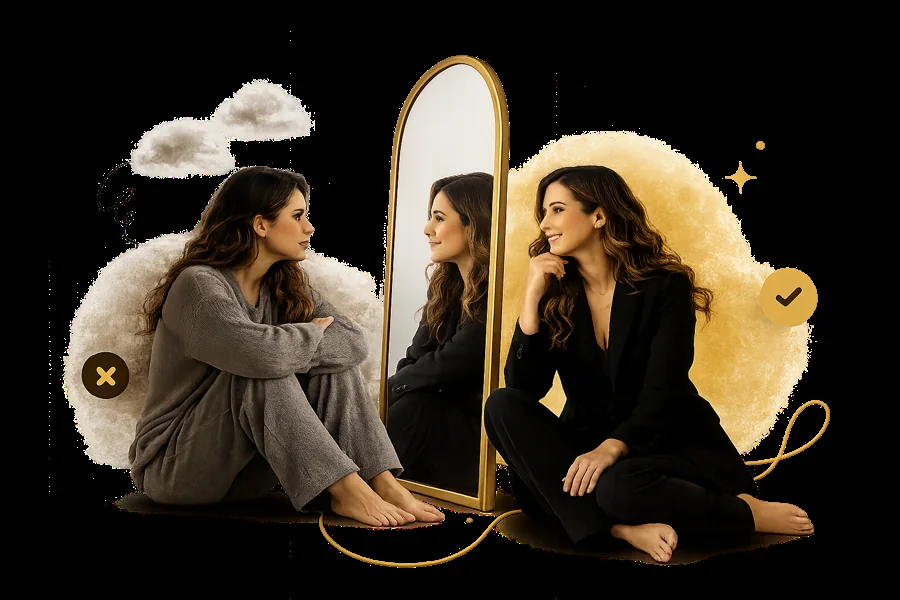
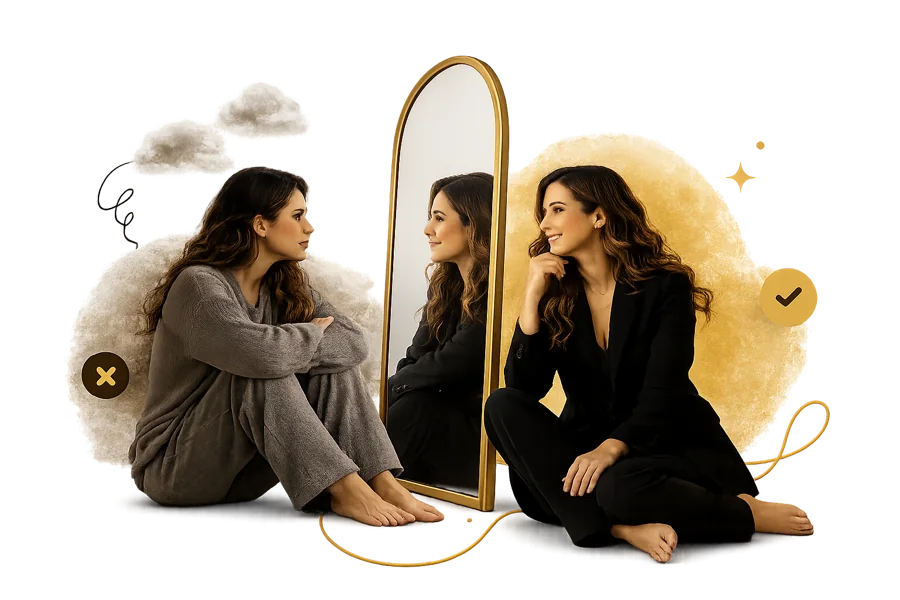
fix: keep futuro image transparency, remove card effect

diff --git a/public/css/styles.css b/public/css/styles.css
@@ -253,7 +253,7 @@ h1,h2,h3,h4,h5,h6,p,li,figcaption{text-wrap:balance}
 /* VISÃO DE FUTURO — imagem esq / cenários dir, compacto */
 .futuro{background:var(--preto);padding:var(--sp-section) 0;display:grid;grid-template-columns:0.82fr 1fr;gap:64px;align-items:center}
 .futuro-img-wrap{position:relative}
-.futuro-img{width:100%;height:auto;display:block;border-radius:6px;box-shadow:0 40px 90px -45px rgba(0,0,0,0.7)}
+.futuro-img{width:100%;height:auto;display:block}
 .futuro-inner{max-width:none;margin:0}
 .futuro h2{font-family:var(--font-display);font-size:var(--fs-h2-sm);font-weight:400;color:var(--off-white);line-height:1.12;letter-spacing:-0.02em;margin-bottom:28px}
 .futuro-cenarios{display:flex;flex-direction:column;margin-bottom:32px}